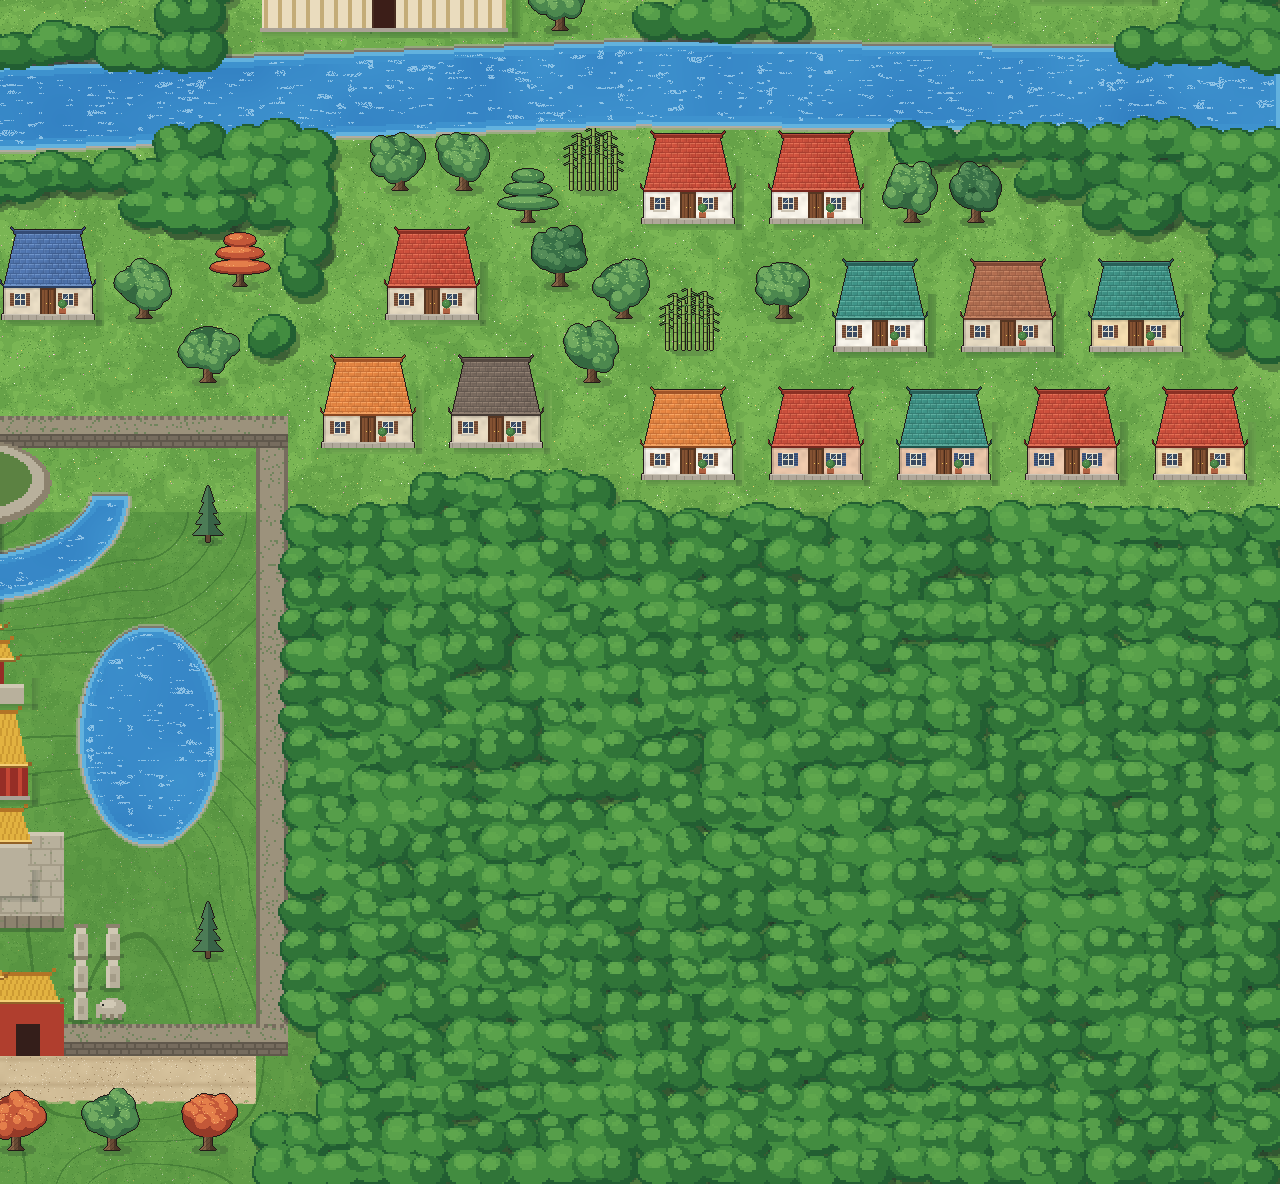
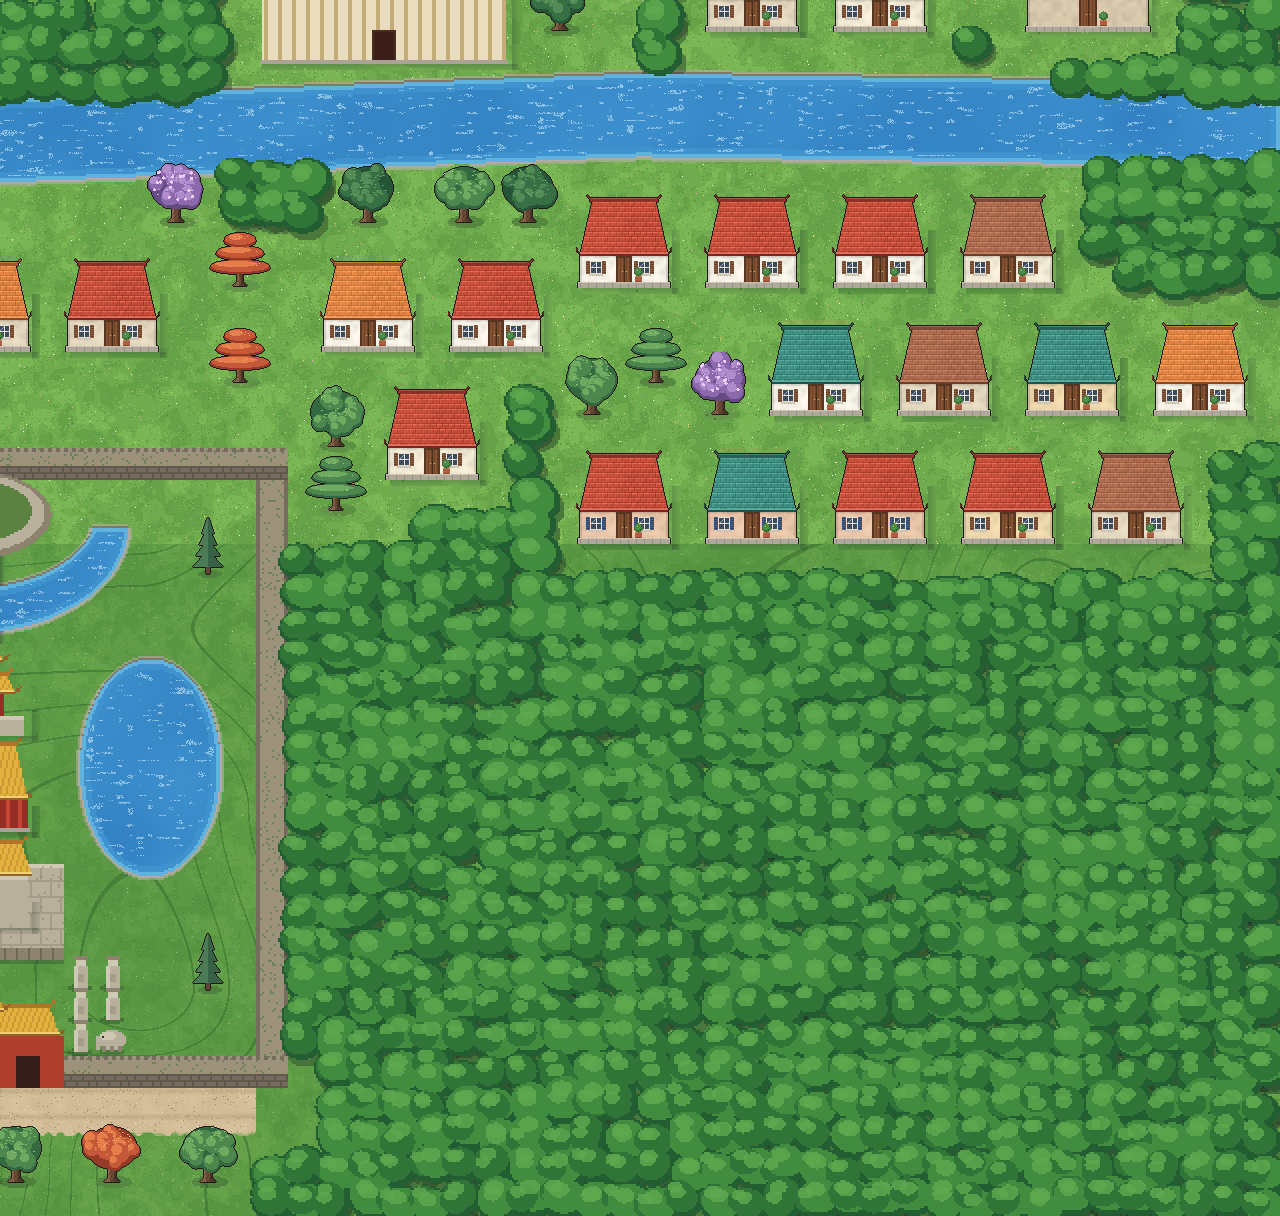
feat: the parks before the Citadel's gates, with Phu Văn Lâu in them
As on the real map, a park runs between the Citadel's moat and Lê Duẩn, in
front of Chánh Nam Môn, Quảng Đức, Kỳ Đài, Cửa Ngăn and Thượng Tứ: lawns,
gravel paths, flower beds and benches, the gates' paved ways running out
through it to the street. Phu Văn Lâu stands in it on the axis before Kỳ
Đài; Nghênh Lương Đình stays across the street at the water's edge, on its
own landing.

To make the room, Lê Duẩn and everything south of it move down 3 rows and
the map grows to 120×114 — the river and its parks, the south bank, the
canal, Ngự Bình, the tombs, the traffic and the spawn with them. The roads
from Kim Long and Văn Miếu reach the street's new line; the high-detail
patches are 40 × 38 tiles.

diff --git a/src/game/scenes/WorldScene.ts b/src/game/scenes/WorldScene.ts
@@ -1088,10 +1088,10 @@ export class WorldScene extends Phaser.Scene {
   private spawnTraffic() {
     const lanes: [number, Exclude<Ride, 'walk'>, boolean, number][] = [
       // [road row, ride, carries a passenger, speed px/s]
-      [49.6, 'bike', false, 70],
-      [49.6, 'cyclo', false, 45],
-      [63.6, 'cyclo', true, 40],
-      [63.6, 'bike', false, 85],
+      [52.6, 'bike', false, 70],
+      [52.6, 'cyclo', false, 45],
+      [66.6, 'cyclo', true, 40],
+      [66.6, 'bike', false, 85],
     ];
     lanes.forEach(([row, ride, passenger, speed], i) => {
       const k = SCALE * RIDE_SCALE[ride];
